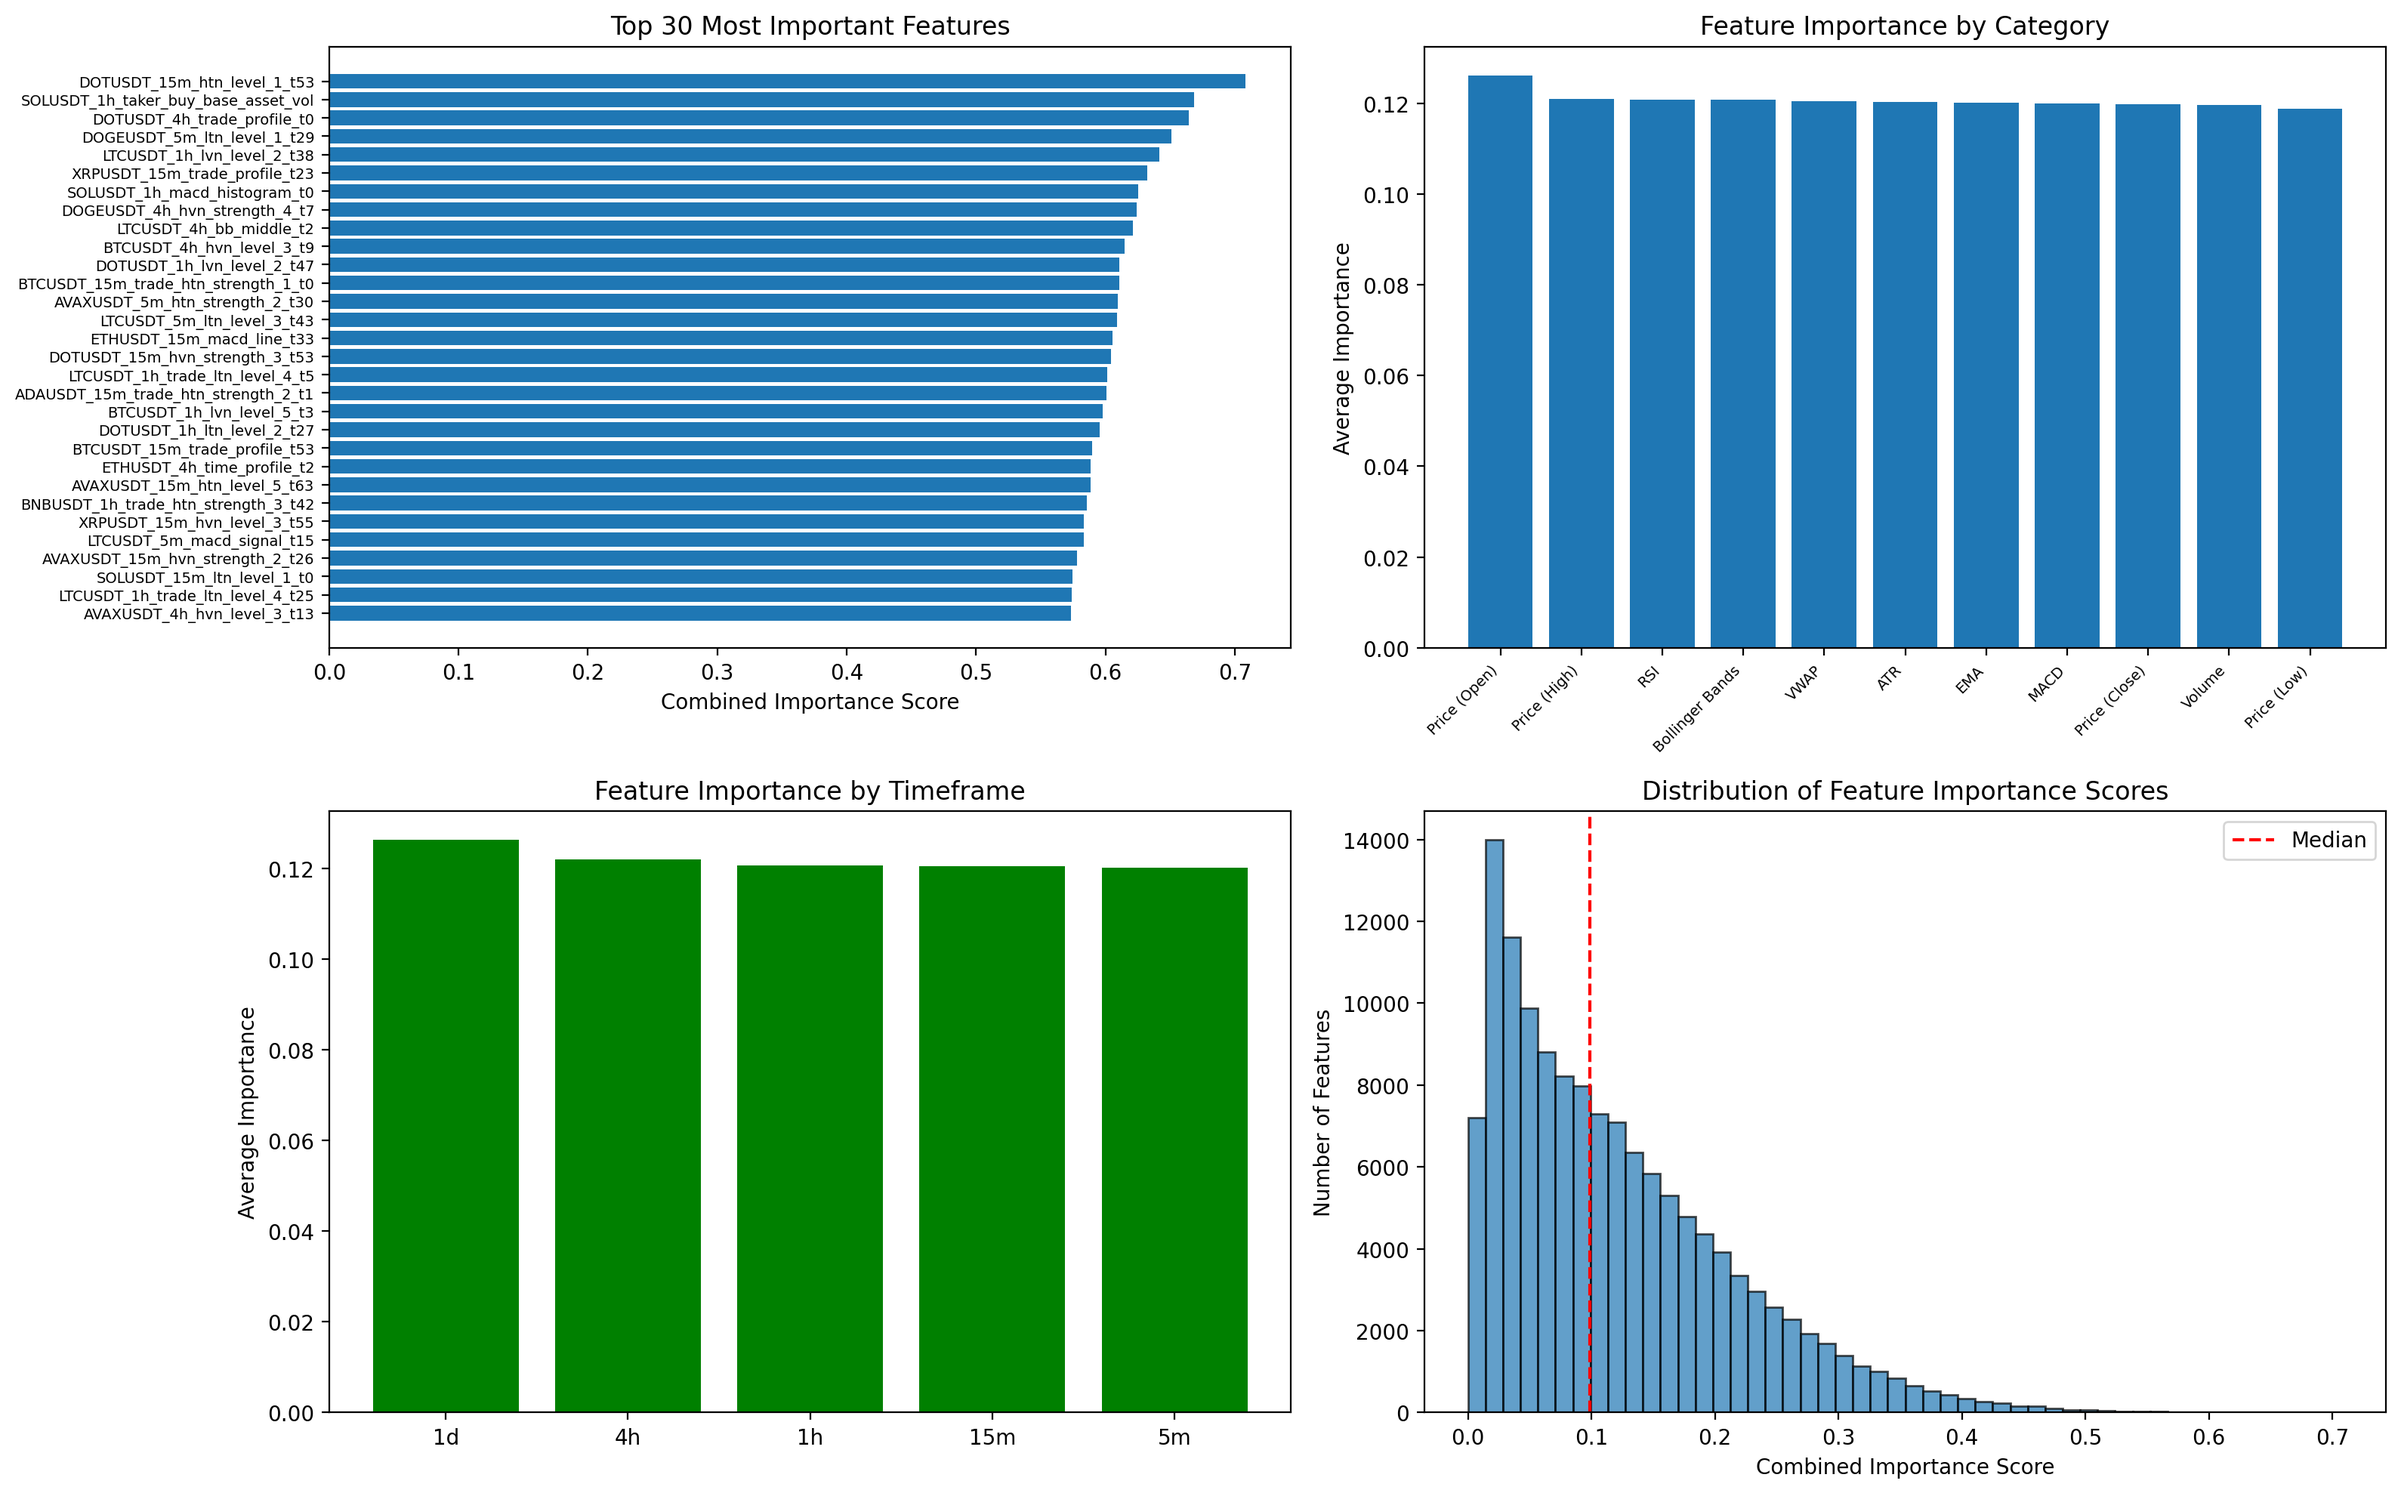
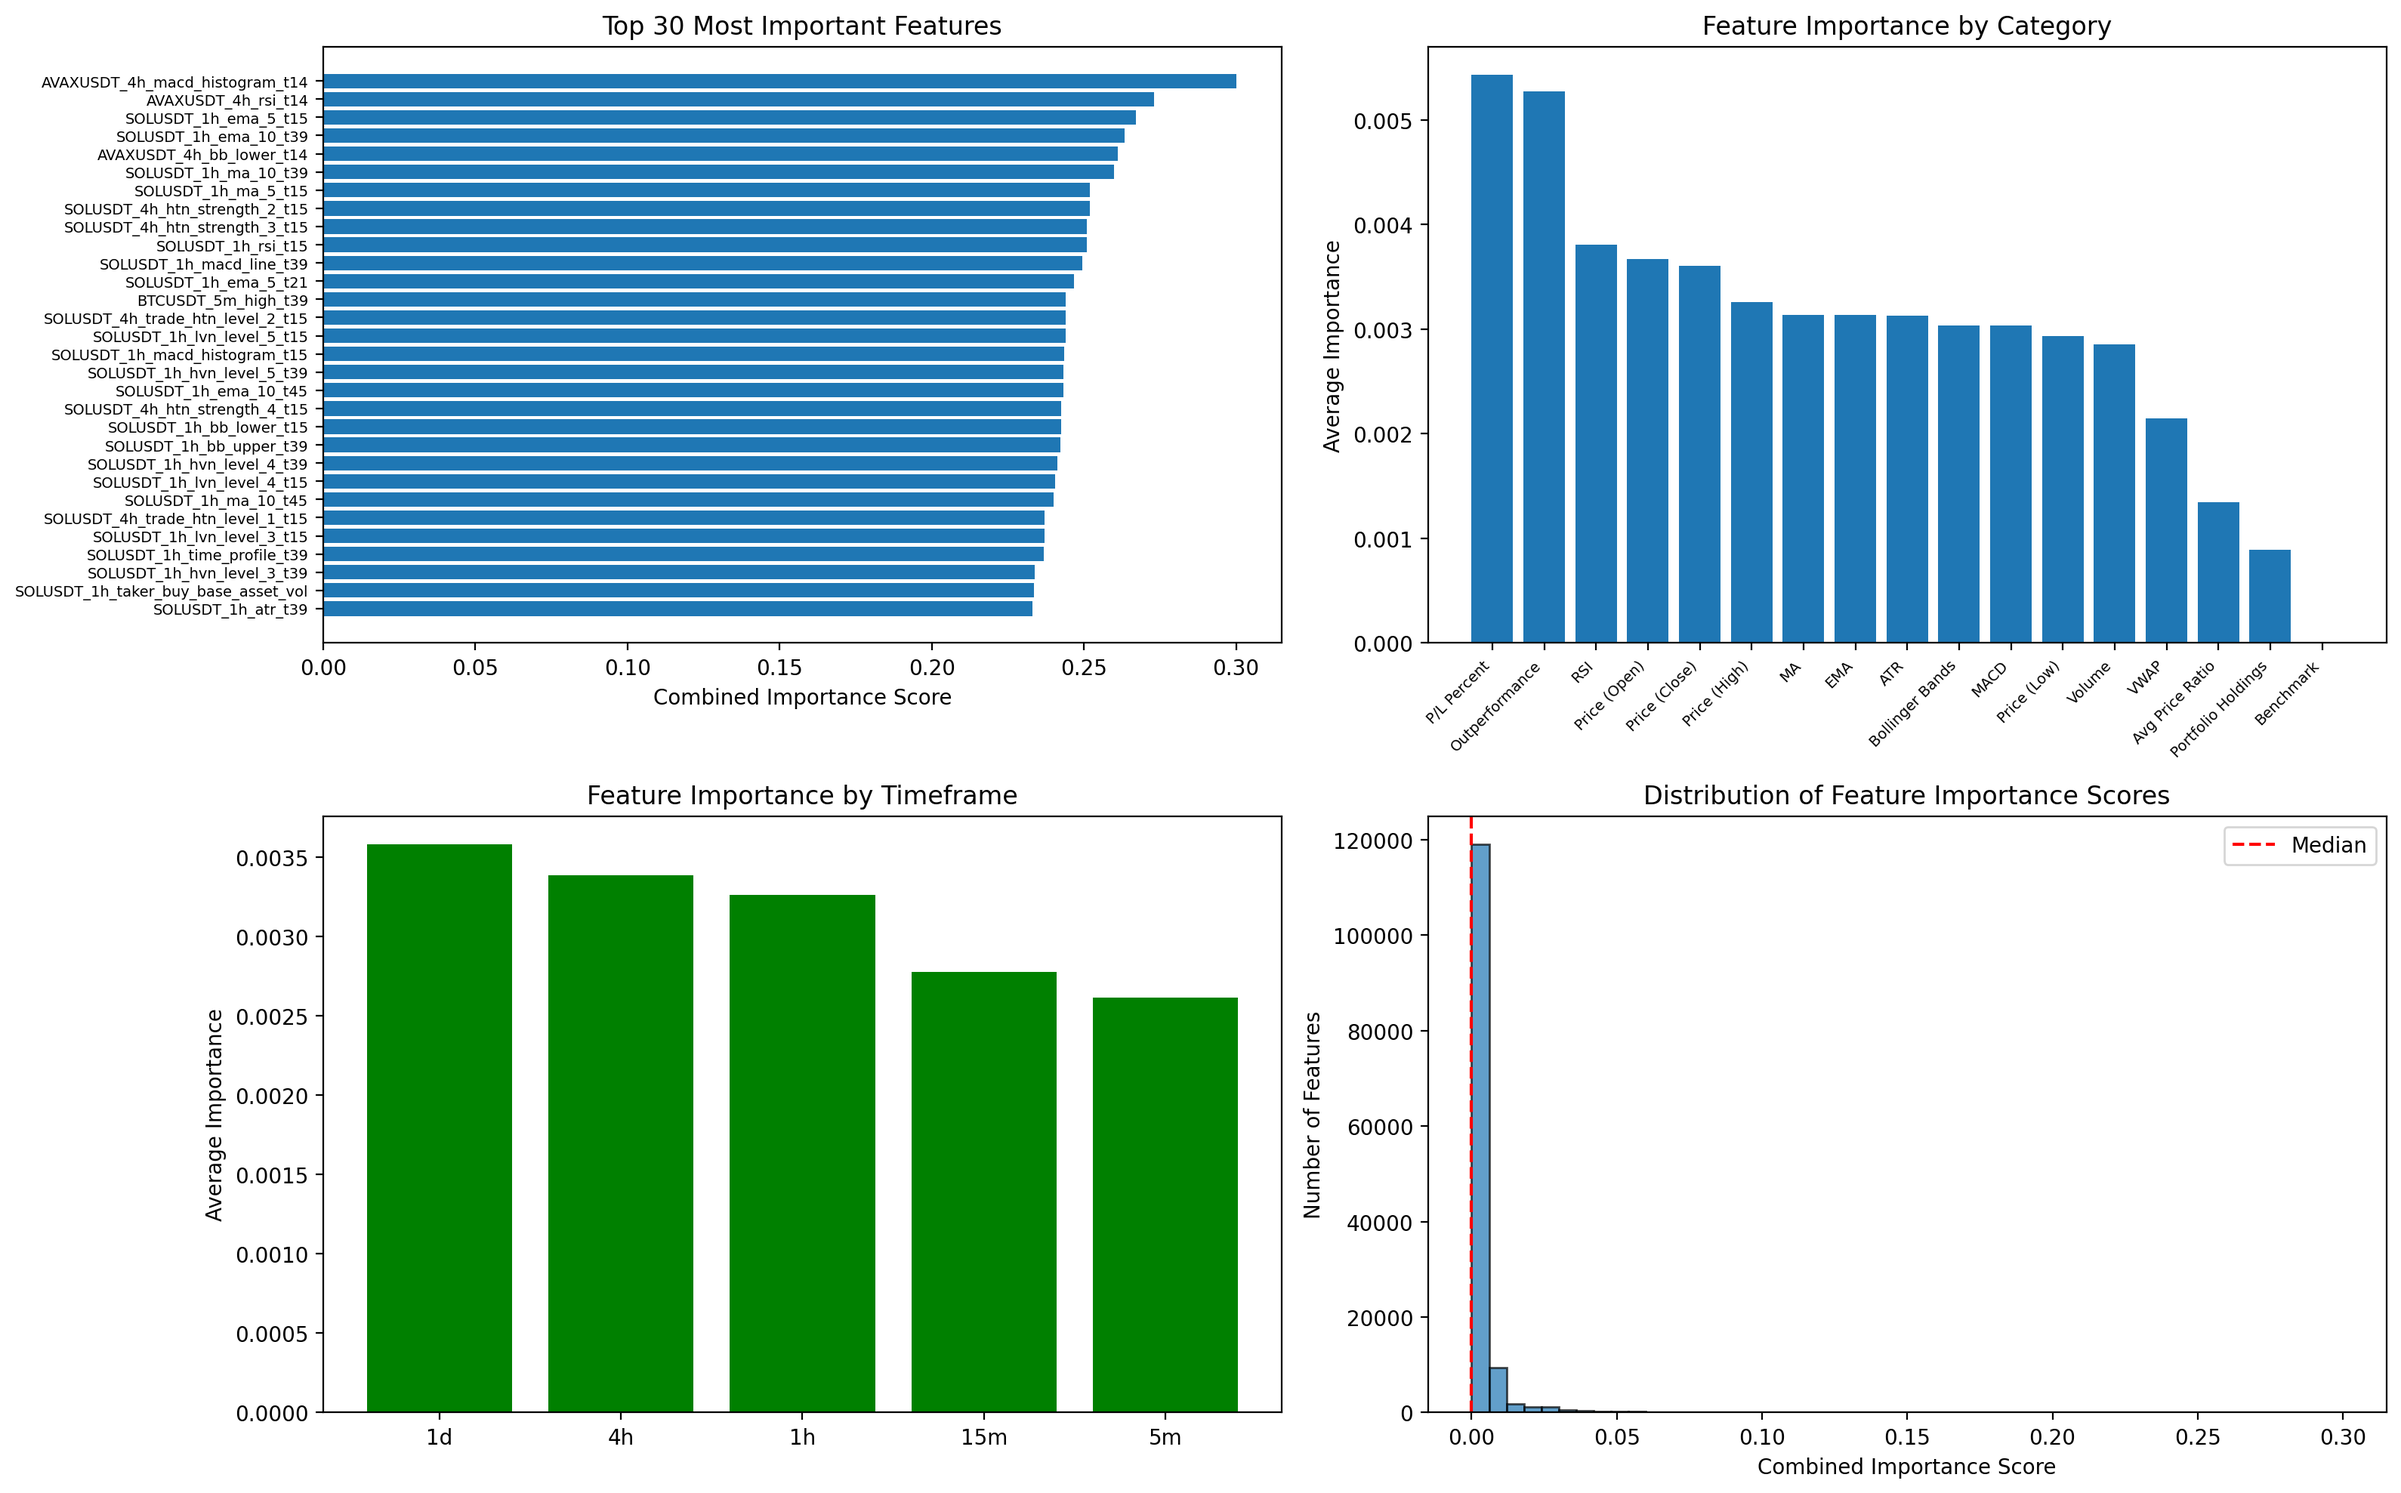
todo

diff --git a/paramInportance.py b/paramInportance.py
@@ -8,7 +8,6 @@ from sklearn.ensemble import RandomForestClassifier
 import matplotlib.pyplot as plt
 
 def get_feature_names(env):
-    """Extract feature names from the environment observation"""
     feature_names = []
     
     exclude_cols = ['timestamp', 'close_time', 'ignore']
@@ -24,14 +23,18 @@ def get_feature_names(env):
         '1d': env.high_timeframes_count[3]
     }
     
-    for symbol in env.asset_names:
+    crypto_symbols = list(env.df.keys())
+    
+    for symbol in crypto_symbols:
         for timeframe, count in aggregation_info.items():
             for col in all_available_cols:
                 for step in range(count):
                     feature_names.append(f"{symbol}_{timeframe}_{col}_t{step}")
     
-    for symbol in env.asset_names:
+    for symbol in crypto_symbols:
         feature_names.append(f"portfolio_holdings_{symbol}")
+        feature_names.append(f"avg_price_ratio_{symbol}")
+        feature_names.append(f"pl_percent_{symbol}")
     
     feature_names.extend([
         'portfolio_cash_pct',
@@ -43,7 +46,6 @@ def get_feature_names(env):
     return feature_names
 
 def collect_data_samples(env, model, num_episodes=3, max_steps=50):
-    """Collect state-action samples quickly"""
     states = []
     actions = []
     
@@ -67,15 +69,13 @@ def collect_data_samples(env, model, num_episodes=3, max_steps=50):
             
             state = next_state
         
-        print(f"  Episode {episode+1}/{num_episodes}: {len(states)} total samples")
+        print(f"  Episode {episode+1}/{num_episodes}: collected {len(states)} samples")
     
     return np.array(states, dtype=np.float32), np.array(actions, dtype=np.float32)
 
 def fast_gradient_importance(model, states, actions, batch_size=32):
-    """Fast gradient-based importance using batching"""
     print("\nCalculating gradient-based importance...")
     
-    # Use fewer samples for speed
     num_samples = min(len(states), 150)
     indices = np.random.choice(len(states), num_samples, replace=False)
     states_sample = states[indices]
@@ -100,15 +100,13 @@ def fast_gradient_importance(model, states, actions, batch_size=32):
         all_gradients.append(np.abs(grads.numpy()))
         
         if (i // batch_size) % 2 == 0:
-            print(f"  Processed {end_idx}/{num_samples} samples...")
+            print(f"  Processed {end_idx}/{num_samples} samples")
     
-    # Average across all samples
     avg_gradients = np.mean(np.concatenate(all_gradients, axis=0), axis=0)
     
     return avg_gradients
 
 def fast_variance_importance(states, sample_size=500):
-    """Ultra-fast variance-based importance"""
     print("\nCalculating variance-based importance...")
     
     if len(states) > sample_size:
@@ -117,19 +115,15 @@ def fast_variance_importance(states, sample_size=500):
     else:
         states_sample = states
     
-    # Features with higher variance are potentially more informative
     variances = np.var(states_sample, axis=0)
     
     return variances
 
 def create_importance_table(feature_names, gradient_importance, variance_importance, top_n=100):
-    """Create a comprehensive importance table"""
     
-    # Normalize both metrics to 0-1 range
     grad_normalized = (gradient_importance - gradient_importance.min()) / (gradient_importance.max() - gradient_importance.min() + 1e-8)
     var_normalized = (variance_importance - variance_importance.min()) / (variance_importance.max() - variance_importance.min() + 1e-8)
     
-    # Combined score (weighted: 70% gradient, 30% variance)
     combined_importance = 0.7 * grad_normalized + 0.3 * var_normalized
     
     df = pd.DataFrame({
@@ -153,7 +147,6 @@ def create_importance_table(feature_names, gradient_importance, variance_importa
     return df
 
 def analyze_by_category(df):
-    """Group features by category and analyze"""
     print(f"\n{'='*80}")
     print("FEATURE IMPORTANCE BY CATEGORY")
     print(f"{'='*80}")
@@ -167,17 +160,13 @@ def analyze_by_category(df):
         'rsi': 'RSI',
         'macd': 'MACD',
         'ema': 'EMA',
-        'sma': 'SMA',
+        'ma_': 'MA',
         'bb': 'Bollinger Bands',
         'atr': 'ATR',
-        'stoch': 'Stochastic',
-        'adx': 'ADX',
-        'obv': 'OBV',
-        'mfi': 'MFI',
-        'cci': 'CCI',
-        'williams': 'Williams %R',
         'vwap': 'VWAP',
-        'portfolio': 'Portfolio State',
+        'portfolio_holdings': 'Portfolio Holdings',
+        'avg_price_ratio': 'Avg Price Ratio',
+        'pl_percent': 'P/L Percent',
         'benchmark': 'Benchmark',
         'outperformance': 'Outperformance'
     }
@@ -207,7 +196,6 @@ def analyze_by_category(df):
     return category_df
 
 def analyze_by_timeframe(df):
-    """Analyze importance by timeframe"""
     print(f"\n{'='*60}")
     print("FEATURE IMPORTANCE BY TIMEFRAME")
     print(f"{'='*60}")
@@ -236,16 +224,14 @@ def analyze_by_timeframe(df):
         
         return tf_df
     else:
-        print("No timeframe-specific features found")
+        print("No timeframe features found")
         return None
 
 def save_quick_visualizations(df, category_df, timeframe_df):
-    """Create simple but informative visualizations"""
     print("\nCreating visualizations...")
     
     fig, axes = plt.subplots(2, 2, figsize=(16, 10))
     
-    # Top 30 features
     top_features = df.head(30)
     axes[0, 0].barh(range(len(top_features)), top_features['Combined_Score'])
     axes[0, 0].set_yticks(range(len(top_features)))
@@ -254,7 +240,6 @@ def save_quick_visualizations(df, category_df, timeframe_df):
     axes[0, 0].set_title('Top 30 Most Important Features')
     axes[0, 0].invert_yaxis()
     
-    # Category importance
     if category_df is not None:
         axes[0, 1].bar(range(len(category_df)), category_df['avg_importance'])
         axes[0, 1].set_xticks(range(len(category_df)))
@@ -262,7 +247,6 @@ def save_quick_visualizations(df, category_df, timeframe_df):
         axes[0, 1].set_ylabel('Average Importance')
         axes[0, 1].set_title('Feature Importance by Category')
     
-    # Timeframe importance
     if timeframe_df is not None:
         axes[1, 0].bar(range(len(timeframe_df)), timeframe_df['avg_importance'], color='green')
         axes[1, 0].set_xticks(range(len(timeframe_df)))
@@ -270,7 +254,6 @@ def save_quick_visualizations(df, category_df, timeframe_df):
         axes[1, 0].set_ylabel('Average Importance')
         axes[1, 0].set_title('Feature Importance by Timeframe')
     
-    # Distribution of importance scores
     axes[1, 1].hist(df['Combined_Score'], bins=50, alpha=0.7, edgecolor='black')
     axes[1, 1].set_xlabel('Combined Importance Score')
     axes[1, 1].set_ylabel('Number of Features')
@@ -324,55 +307,38 @@ if __name__ == "__main__":
     
     print("\nExtracting feature names...")
     feature_names = get_feature_names(env)
-    print(f"Total features: {len(feature_names)}")
+    print(f"Expected features from naming: {len(feature_names)}")
     
-    # Quick data collection (fewer episodes, fewer steps)
     states, actions = collect_data_samples(env, model, num_episodes=3, max_steps=50)
     
     print(f"\nCollected {len(states)} samples")
-    print(f"State shape: {states.shape}")
+    print(f"Actual state shape: {states.shape}")
     
-    # Handle size mismatch between feature names and actual state
     actual_feature_count = states.shape[1]
     if len(feature_names) != actual_feature_count:
-        print(f"\nWarning: Feature name count ({len(feature_names)}) doesn't match state size ({actual_feature_count})")
-        print(f"Adjusting feature names...")
+        print(f"\nAdjusting feature names: {len(feature_names)} -> {actual_feature_count}")
         
         if len(feature_names) < actual_feature_count:
-            # Add generic names for extra features
             for i in range(len(feature_names), actual_feature_count):
                 feature_names.append(f"feature_{i}")
         else:
-            # Truncate feature names
             feature_names = feature_names[:actual_feature_count]
         
         print(f"Adjusted to {len(feature_names)} feature names")
     
-    # Fast gradient importance (batched)
     gradient_importance = fast_gradient_importance(model, states, actions, batch_size=32)
-    
-    # Fast variance importance (no model needed)
     variance_importance = fast_variance_importance(states, sample_size=500)
-    
-    # Verify all arrays have the same length
     assert len(feature_names) == len(gradient_importance) == len(variance_importance), \
         f"Length mismatch: features={len(feature_names)}, gradient={len(gradient_importance)}, variance={len(variance_importance)}"
     
-    # Create importance table
     importance_df = create_importance_table(feature_names, gradient_importance, variance_importance, top_n=100)
-    
-    # Category analysis
     category_df = analyze_by_category(importance_df)
-    
-    # Timeframe analysis
     timeframe_df = analyze_by_timeframe(importance_df)
     
-    # Save results
     print("\nSaving results to CSV...")
     importance_df.to_csv('feature_importance_fast.csv', index=False)
     print("Saved 'feature_importance_fast.csv'")
     
-    # Save only top 500 features for quick review
     importance_df.head(500).to_csv('feature_importance_top500.csv', index=False)
     print("Saved 'feature_importance_top500.csv'")
     
@@ -384,23 +350,8 @@ if __name__ == "__main__":
         timeframe_df.to_csv('feature_importance_by_timeframe.csv')
         print("Saved 'feature_importance_by_timeframe.csv'")
     
-    # Save visualizations
     save_quick_visualizations(importance_df, category_df, timeframe_df)
     
     print("\n" + "="*100)
     print("ANALYSIS COMPLETE")
     print("="*100)
-    print("\nKey optimizations applied:")
-    print("  ✓ Reduced episodes: 3 (was 10)")
-    print("  ✓ Reduced steps per episode: 50 (was 200)")
-    print("  ✓ Reduced gradient samples: 150 (was 100+)")
-    print("  ✓ Removed slow permutation importance")
-    print("  ✓ Added fast variance-based importance")
-    print("  ✓ Increased batch size for GPU efficiency")
-    print(f"  ✓ Analyzed all {len(feature_names)} features")
-    print("\nGenerated files:")
-    print("  - feature_importance_fast.csv (all features)")
-    print("  - feature_importance_top500.csv (top 500 for quick review)")
-    print("  - feature_importance_by_category.csv")
-    print("  - feature_importance_by_timeframe.csv")
-    print("  - feature_importance_fast.png")

diff --git a/train.py b/train.py
@@ -75,11 +75,11 @@ def build_model(obs_shape, num_assets, config=None):
     model = Model(inputs=inputs, outputs=outputs)
     return model
 
-def collect_batch_data(env, model, batch_size, gamma, current_step, epsilon=0.1):
+def collect_batch_data(env, model, batch_size, gamma, current_step, epsilon=0.1, env_reset_probability=0.05):
     states, actions, rewards = [], [], []
     step_logs = []
     
-    if current_step >= env.max_steps or random.random() < 0.05:
+    if current_step >= env.max_steps or random.random() < env_reset_probability:
         state = env.reset()
     else:
         state = env.get_observation()
@@ -436,7 +436,7 @@ if __name__ == "__main__":
         "pretrain_batch_size": 512,
         "pretrain_chunk_size": 256 * 10,
         "online_total_batches": 5000,
-        "online_batch_size": 512,
+        "online_batch_size": 256,
         "gamma": 0.99,
         "lr_patience": 100,
         "lr_decay": 0.5,
@@ -444,6 +444,7 @@ if __name__ == "__main__":
         "epsilon_start": 0.125,
         "epsilon_end": 0.02,
         "epsilon_decay": 0.9995,
+        "env_reset_probability": 0.75,
     }
     
     wandb.init(project="portfolio-trading-online-batch", config=config)
@@ -516,7 +517,7 @@ if __name__ == "__main__":
         
         collect_start = time.time()
         states, actions, returns, batch_info, step_logs = collect_batch_data(
-            env, model, config.online_batch_size, config.gamma, global_step, epsilon
+            env, model, config.online_batch_size, config.gamma, global_step, epsilon, config.env_reset_probability
         )
         collect_time = time.time() - collect_start
         

diff --git a/portfolio_env.py b/portfolio_env.py
@@ -657,6 +657,9 @@ class PortfolioEnv():
             portfolio_weights[symbol] = weight
             portfolio_weighted_return += weight * future_profits[symbol]
         
+        # Get future returns list for risk calculations
+        future_returns_list = list(future_profits.values())
+        
         # Reward alignment with future opportunities
         future_alignment_reward = portfolio_weighted_return * 300  # Reduced from 400
         
@@ -670,7 +673,6 @@ class PortfolioEnv():
                 future_alignment_reward -= (top_concentration - 0.5) * 100
         
         # ===== 4. RISK-ADJUSTED RETURNS (Sharpe-like) =====
-        future_returns_list = list(future_profits.values())
         returns_std = np.std(future_returns_list) if len(future_returns_list) > 1 else 0.001
         
         # Sharpe ratio component
